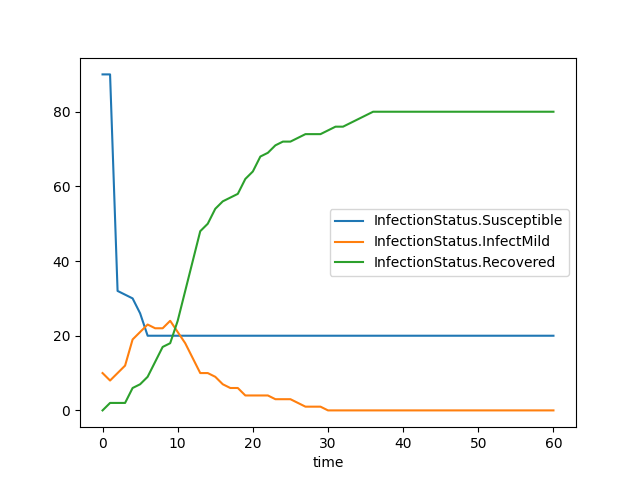
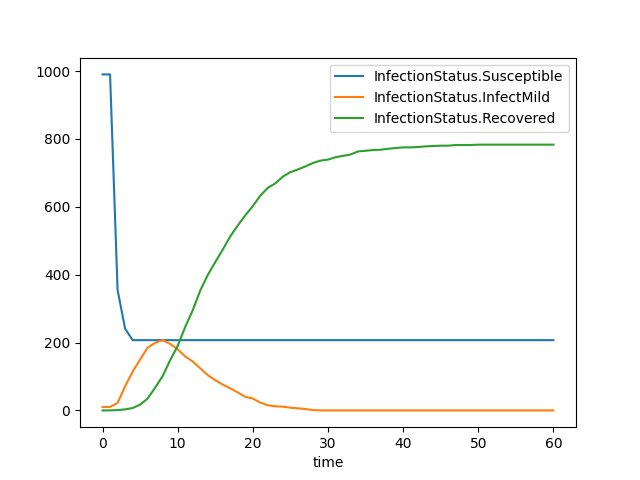
basic sim speeds pop 1000-20000 run

diff --git a/python_examples/basic_simulation/simulation_flow.py b/python_examples/basic_simulation/simulation_flow.py
@@ -25,7 +25,7 @@ pe.routine.Simulation.set_random_seed(seed=42)
 # Pop_params are used to configure the population structure being used in this
 # simulation.
 
-pop_params = {"population_size": 100, "cell_number": 1,
+pop_params = {"population_size": 1000, "cell_number": 1,
               "microcell_number": 1, "household_number": 5,
               "place_number": 2}
 
